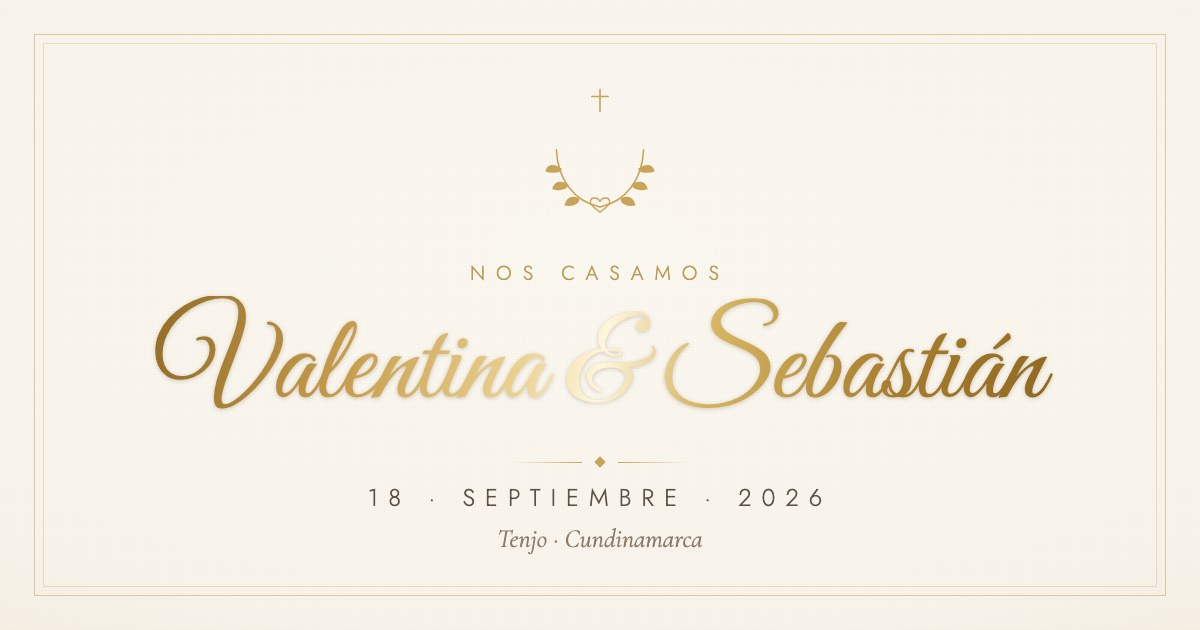
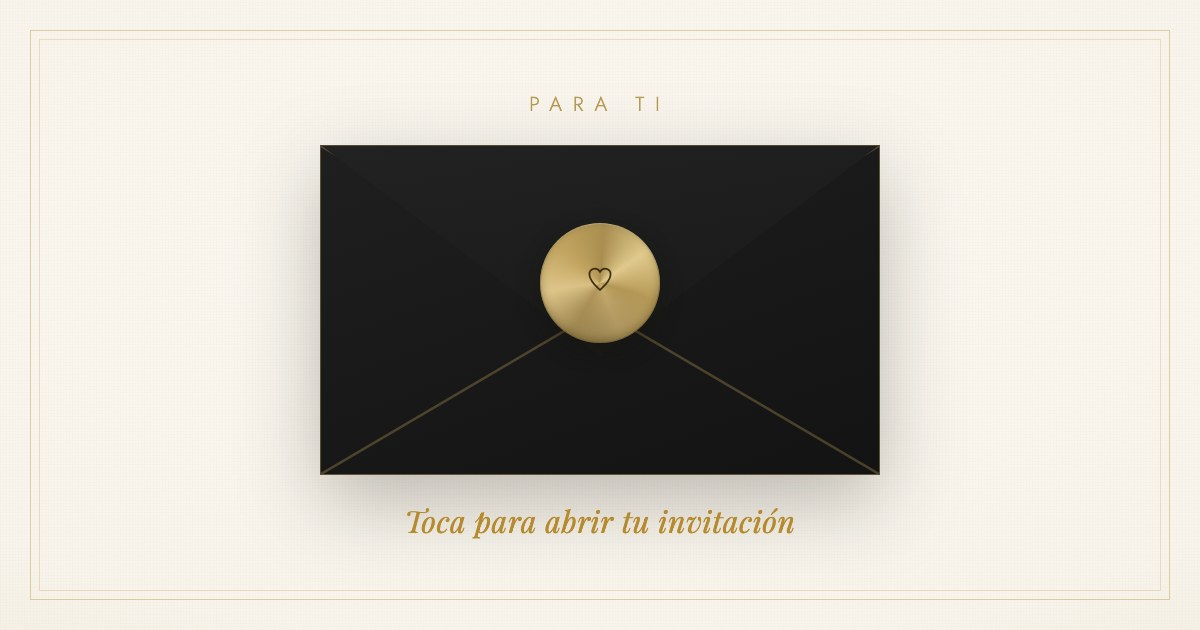
Vista previa modo sorpresa: sobre sellado misterioso (sin nombres, fecha ni 'boda') + textos neutros 'Tienes una invitacion / Toca para abrir'; cache-bust og.jpg?v=2

diff --git a/index.html b/index.html
@@ -7,25 +7,25 @@
 <meta http-equiv="Cache-Control" content="no-cache, no-store, must-revalidate">
 <meta http-equiv="Pragma" content="no-cache">
 <meta http-equiv="Expires" content="0">
-<title>Valentina &amp; Sebasti&aacute;n · 18 · IX · 2026</title>
-<!-- Vista previa al compartir (WhatsApp, redes) -->
-<meta name="description" content="Nos casamos · 18 de Septiembre de 2026 · Tenjo, Cundinamarca. Toca para abrir nuestra invitación.">
+<title>Tienes una invitación</title>
+<!-- Vista previa "sorpresa": no revela nombres, fecha ni que es una boda -->
+<meta name="description" content="Toca para abrir tu invitación.">
 <meta property="og:type" content="website">
-<meta property="og:site_name" content="Valentina &amp; Sebastián">
+<meta property="og:site_name" content="Invitación">
 <meta property="og:locale" content="es_ES">
 <meta property="og:url" content="https://jangel2891.github.io/boda/">
-<meta property="og:title" content="Valentina &amp; Sebastián · Nuestra Boda">
-<meta property="og:description" content="18 de Septiembre de 2026 · Tenjo, Cundinamarca. Toca para abrir nuestra invitación.">
-<meta property="og:image" content="https://jangel2891.github.io/boda/og.jpg?v=1">
-<meta property="og:image:secure_url" content="https://jangel2891.github.io/boda/og.jpg?v=1">
+<meta property="og:title" content="Tienes una invitación 💌">
+<meta property="og:description" content="Toca para abrir tu invitación.">
+<meta property="og:image" content="https://jangel2891.github.io/boda/og.jpg?v=2">
+<meta property="og:image:secure_url" content="https://jangel2891.github.io/boda/og.jpg?v=2">
 <meta property="og:image:type" content="image/jpeg">
 <meta property="og:image:width" content="1200">
 <meta property="og:image:height" content="630">
-<meta property="og:image:alt" content="Valentina & Sebastián — 18 de Septiembre de 2026">
+<meta property="og:image:alt" content="Un sobre sellado. Toca para abrir tu invitación.">
 <meta name="twitter:card" content="summary_large_image">
-<meta name="twitter:title" content="Valentina &amp; Sebastián · Nuestra Boda">
-<meta name="twitter:description" content="18 de Septiembre de 2026 · Tenjo, Cundinamarca.">
-<meta name="twitter:image" content="https://jangel2891.github.io/boda/og.jpg?v=1">
+<meta name="twitter:title" content="Tienes una invitación 💌">
+<meta name="twitter:description" content="Toca para abrir tu invitación.">
+<meta name="twitter:image" content="https://jangel2891.github.io/boda/og.jpg?v=2">
 <link rel="preconnect" href="https://fonts.googleapis.com">
 <link rel="preconnect" href="https://fonts.gstatic.com" crossorigin>
 <link href="https://fonts.googleapis.com/css2?family=Playfair+Display:ital,wght@0,400;0,500;1,400;1,500&family=Cormorant+Garamond:ital,wght@0,300;0,400;1,300;1,400&family=Great+Vibes&family=Jost:wght@200;300;400&display=swap" rel="stylesheet">
